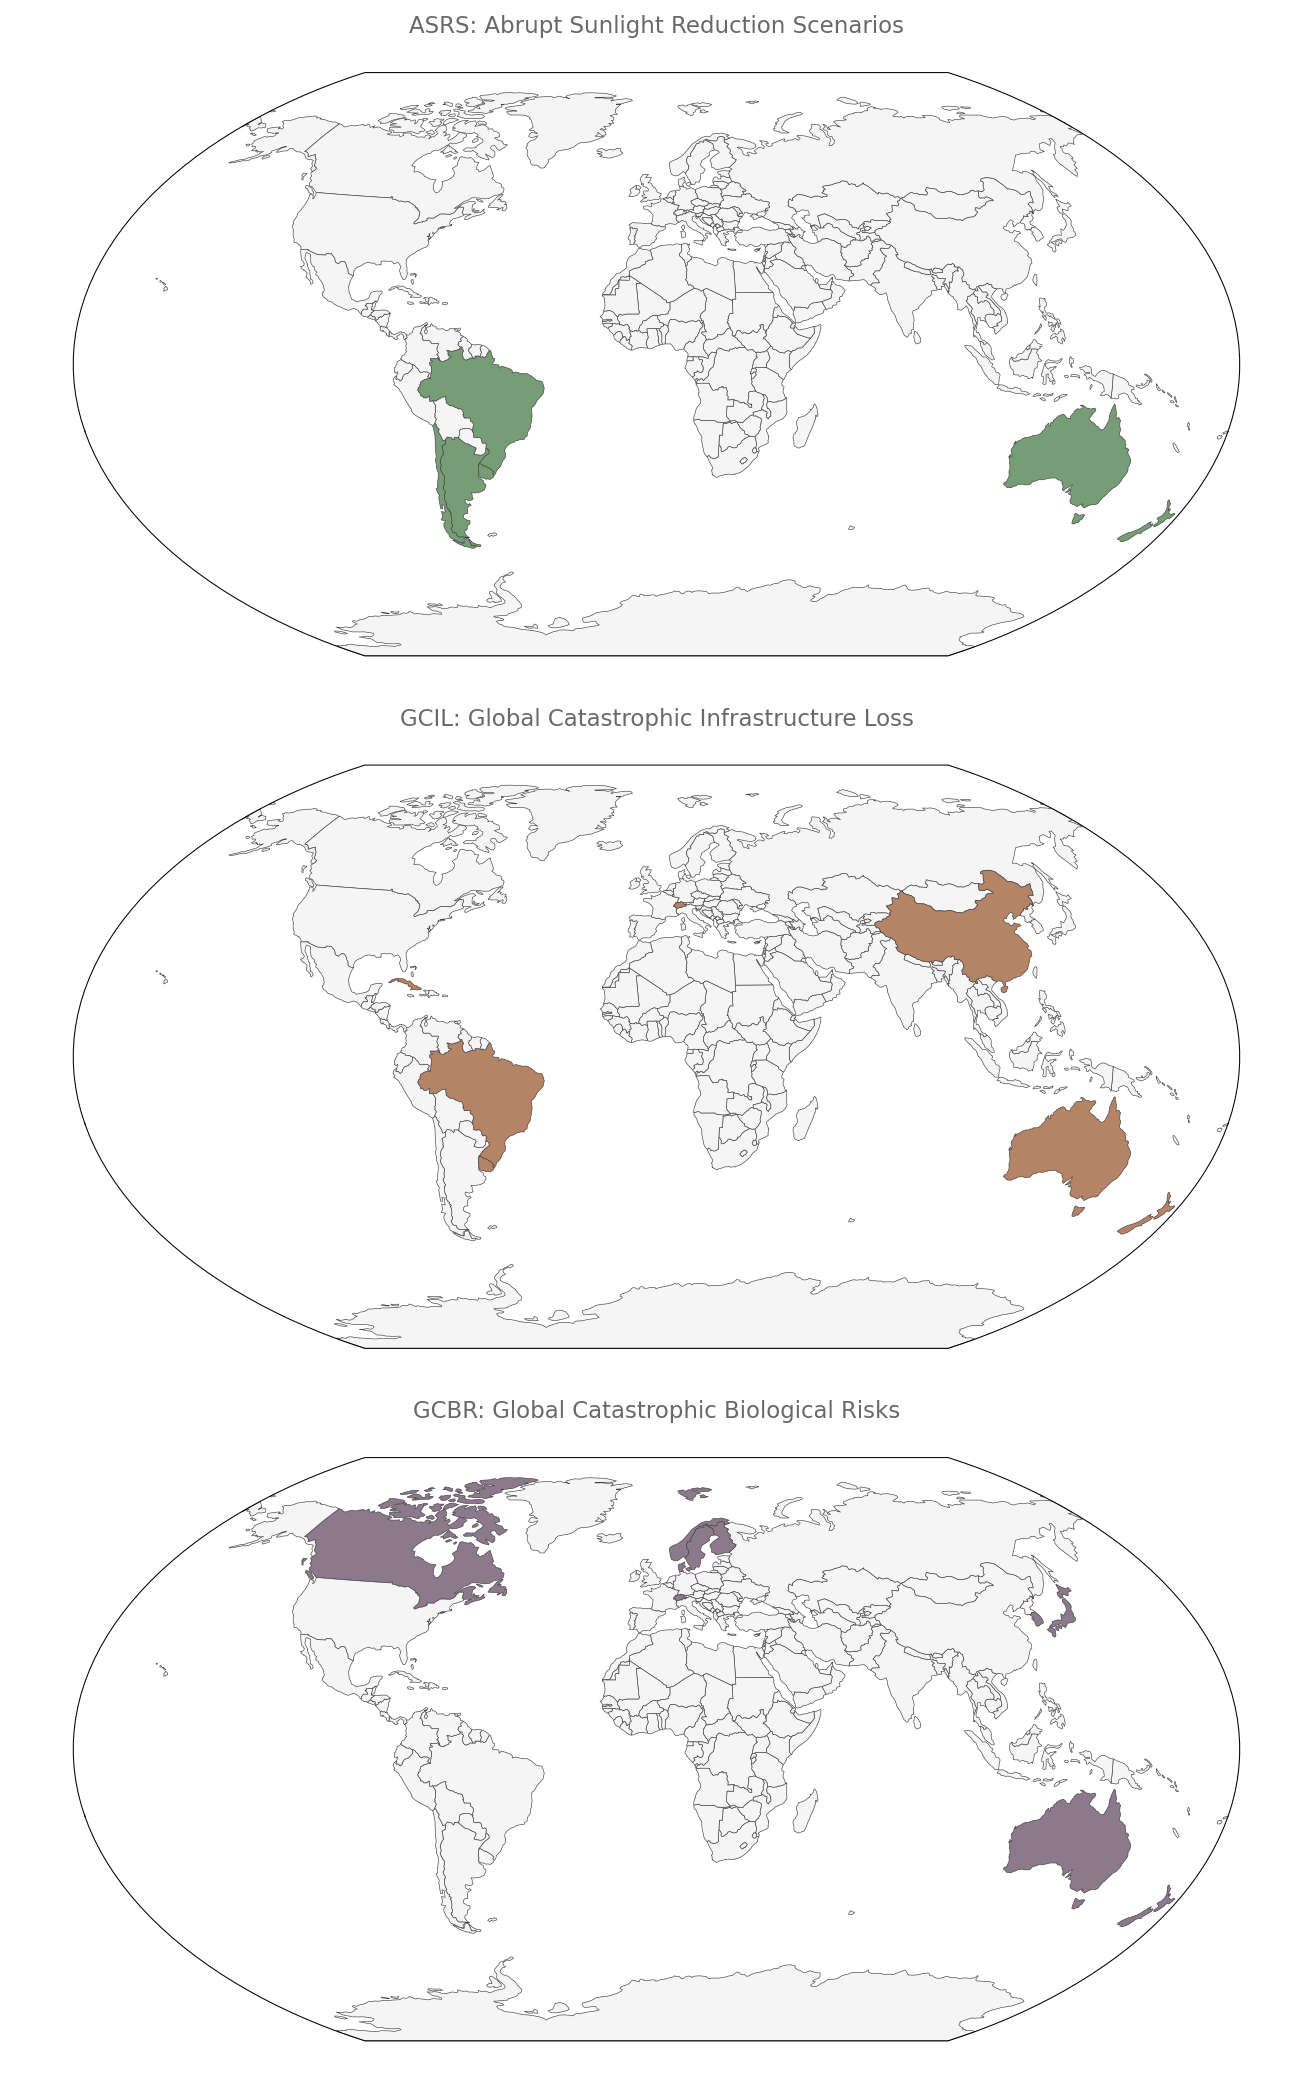
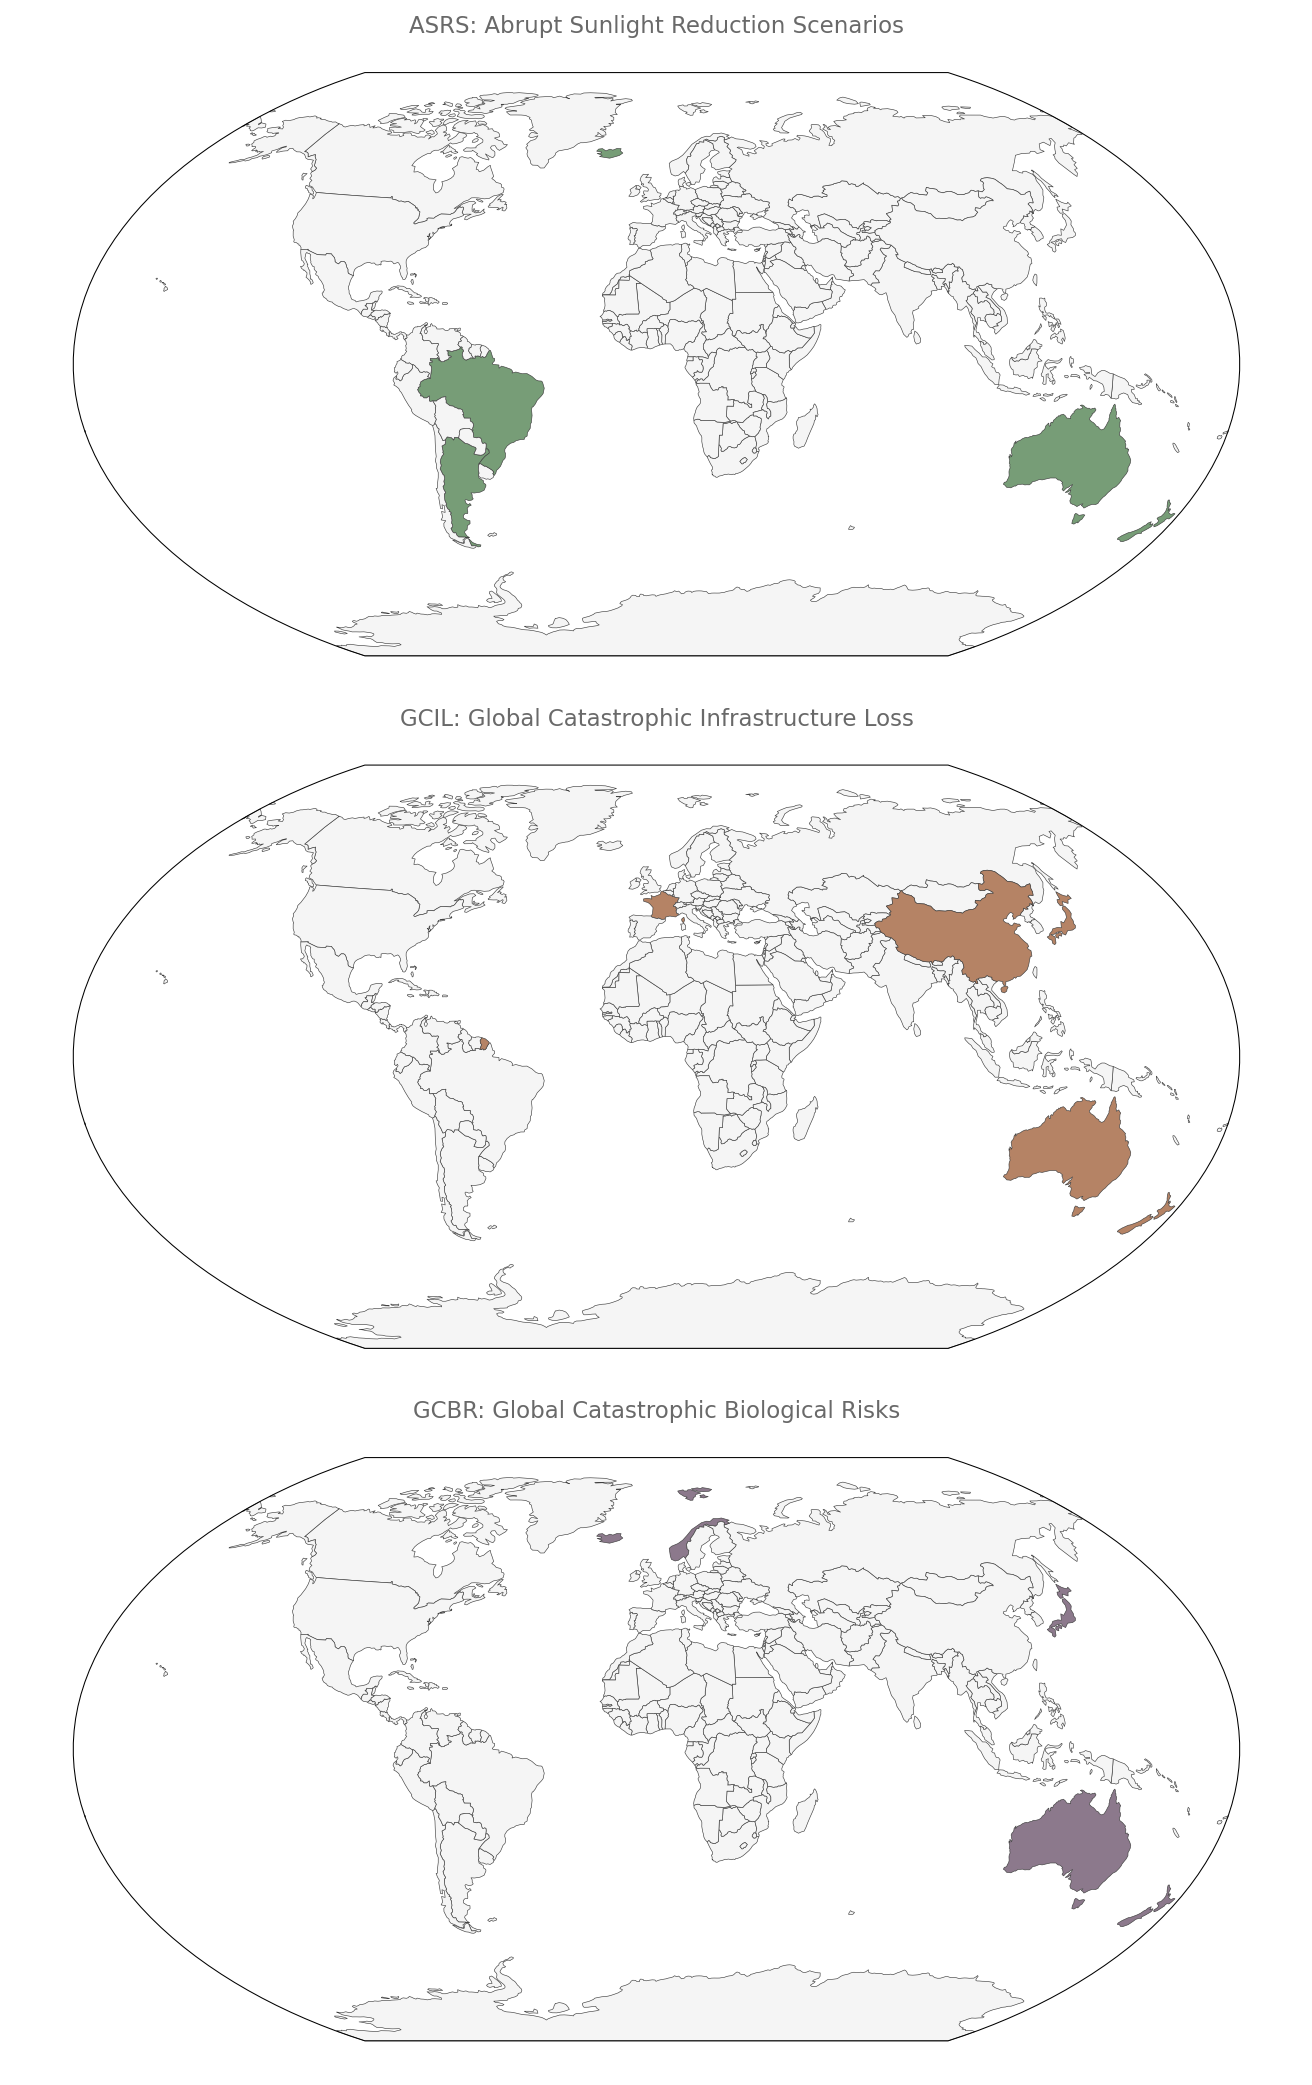
update the overview plots map, so it only shows the 5 best countries in each category

diff --git a/src/overview_plots.py b/src/overview_plots.py
@@ -125,30 +125,27 @@ class WorldMap:
         return fig, axes
 
 
+def top_countries_for_scope(scope):
+    """Top-N countries by resilience factors for a given GCR scope.
+
+    Reuses the factor-count analysis in ``factor_count_comparison`` so the maps
+    always highlight exactly the countries shown in the factor-count charts.
+    """
+    import factor_count_comparison as fcc
+
+    df = fcc.expand_regions(fcc.load_ledger())
+    categories = fcc.SCOPES[scope]
+    scoped = df if categories is None else df[df["GCR category"].isin(categories)]
+    table = fcc.counts_by_country(scoped)
+    return set(fcc.top_countries(table))
+
+
 if __name__ == "__main__":
-    # Define country sets
-    asrs = {"Australia", "New Zealand", "Argentina", "Brazil", "Uruguay", "Chile"}
-    gcil = {
-        "Australia",
-        "New Zealand",
-        "Switzerland",
-        "Uruguay",
-        "China",
-        "Brazil",
-        "Cuba",
-    }
-    gcbr = {
-        "Australia",
-        "New Zealand",
-        "Norway",
-        "Sweden",
-        "Denmark",
-        "Finland",
-        "Canada",
-        "Switzerland",
-        "Japan",
-        "KOR",
-    }
+    # Highlight the top 5 countries by resilience factors for each scope,
+    # derived from the factor-count analysis so the maps stay in sync with it.
+    asrs = top_countries_for_scope("ASRS")
+    gcil = top_countries_for_scope("GCIL")
+    gcbr = top_countries_for_scope("GCBR")
 
     # Figure 1: Three stacked maps
     wm = WorldMap()